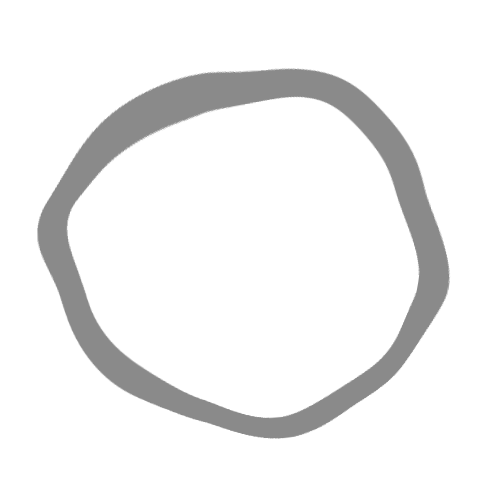
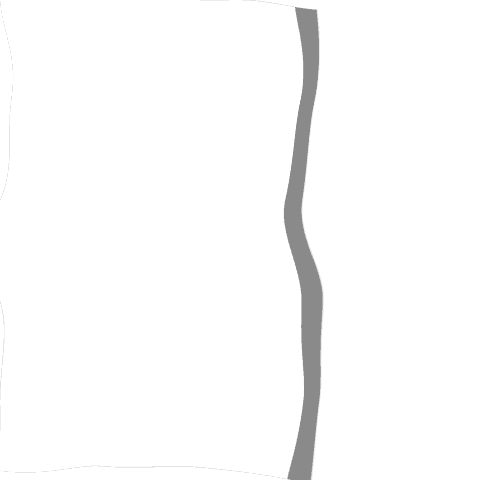
Fundo marrom no convite, pintura em pincel na Hero e corrige vídeo sumindo
Convite: fundo da página passa de creme para marrom escuro (o envelope e
o lacre continuam iguais); ajustado o contraste do texto "Pular"/"Toque
para abrir" para o novo fundo.

Hero: a máscara de revelação trocou de mancha circular para uma faixa
com borda direita irregular, ancorada na esquerda, que cresce da
esquerda para a direita como uma pincelada, em vez de crescer a partir
do centro.

YouTube: o vídeo "O pedido de casamento" sumia porque
pausarAutomaticamente tinha a identidade recriada a cada mudança de
tocando, o que derrubava o efeito do player do YouTube e chamava
destroy() (que remove o próprio iframe) sempre que a música
começava/parava, sem conseguir recriar o player depois. Corrigido lendo
tocando por ref dentro de pausarAutomaticamente (mantendo a função
estável) e, como reforço, o efeito do YouTubeEmbed agora guarda as
funções do contexto em refs e só roda uma vez por vídeo.

Claude-Session: https://claude.ai/code/session_01LnzAL4Gt1cwkHAfYcbQojS

Changed region(s): [[0.0625, 0.0, 0.9375, 1.0]]

diff --git a/components/experiencia/HeroAquarela.tsx b/components/experiencia/HeroAquarela.tsx
@@ -42,14 +42,19 @@ function medirDesempenho(): Promise<boolean> {
   });
 }
 
-// Mancha orgânica usada como máscara de revelação. O feTurbulence/feDisplacementMap é "assado"
-// uma única vez em build time (scripts/gerar-camadas-aquarela.mjs), virando um PNG estático:
-// recalcular esse filtro ao vivo dentro de um mask-image, com mask-size animado, tem recortes
-// retos em alguns navegadores quando a máscara é ampliada. Com um raster pronto, o componente
-// só anima mask-size/mask-position (CSS puro) por cima dele.
+// Faixa de pincel (borda direita irregular) usada como máscara de revelação. O
+// feTurbulence/feDisplacementMap é "assado" uma única vez em build time
+// (scripts/gerar-camadas-aquarela.mjs), virando um PNG estático: recalcular esse filtro ao
+// vivo dentro de um mask-image, com mask-size animado, tem recortes retos em alguns
+// navegadores quando a máscara é ampliada. Com um raster pronto, o componente só anima
+// mask-size (a largura da faixa, da esquerda para a direita) por cima dele.
 const MASCARA_LAVAGEM = 'url("/images/aquarela/mascara-lavagem.png")';
 const MASCARA_FINAL = 'url("/images/aquarela/mascara-final.png")';
-const ORIGEM_MANCHA = "54% 58%";
+// A faixa fica ancorada na borda esquerda (0%) e centralizada na vertical; só a largura
+// (primeiro valor do mask-size) cresce, pintando da esquerda para a direita como um pincel.
+const ORIGEM_MANCHA = "0% 50%";
+const LARGURA_INICIAL = "3% 400%";
+const LARGURA_FINAL = "190% 400%";
 
 type TextoRevelavelProps = {
   className?: string;
@@ -137,14 +142,14 @@ export default function HeroAquarela() {
       if (modo === "cheio") {
         tl.fromTo(
           lavagem.current,
-          { maskSize: "8% 8%", WebkitMaskSize: "8% 8%", opacity: 1 },
-          { maskSize: "260% 260%", WebkitMaskSize: "260% 260%", duration: 1.6, ease: "power2.out" },
+          { maskSize: LARGURA_INICIAL, WebkitMaskSize: LARGURA_INICIAL, opacity: 1 },
+          { maskSize: LARGURA_FINAL, WebkitMaskSize: LARGURA_FINAL, duration: 1.6, ease: "power1.inOut" },
           0.35,
         )
           .fromTo(
             final.current,
-            { maskSize: "8% 8%", WebkitMaskSize: "8% 8%" },
-            { maskSize: "280% 280%", WebkitMaskSize: "280% 280%", duration: 1.9, ease: "power2.out" },
+            { maskSize: LARGURA_INICIAL, WebkitMaskSize: LARGURA_INICIAL },
+            { maskSize: LARGURA_FINAL, WebkitMaskSize: LARGURA_FINAL, duration: 1.9, ease: "power1.inOut" },
             1.1,
           )
           .to(final.current, { opacity: 1, duration: 0.1 }, 1.1)
@@ -157,8 +162,8 @@ export default function HeroAquarela() {
       } else {
         tl.fromTo(
           final.current,
-          { maskSize: "8% 8%", WebkitMaskSize: "8% 8%" },
-          { maskSize: "280% 280%", WebkitMaskSize: "280% 280%", duration: 1.3, ease: "power2.out" },
+          { maskSize: LARGURA_INICIAL, WebkitMaskSize: LARGURA_INICIAL },
+          { maskSize: LARGURA_FINAL, WebkitMaskSize: LARGURA_FINAL, duration: 1.3, ease: "power1.inOut" },
           0.4,
         ).to(final.current, { opacity: 1, duration: 0.1 }, 0.4);
       }
@@ -187,8 +192,8 @@ export default function HeroAquarela() {
     maskRepeat: "no-repeat",
     WebkitMaskPosition: ORIGEM_MANCHA,
     maskPosition: ORIGEM_MANCHA,
-    WebkitMaskSize: "8% 8%",
-    maskSize: "8% 8%",
+    WebkitMaskSize: LARGURA_INICIAL,
+    maskSize: LARGURA_INICIAL,
   });
 
   return (

diff --git a/components/YouTubeEmbed.tsx b/components/YouTubeEmbed.tsx
@@ -53,6 +53,17 @@ export default function YouTubeEmbed({ videoId, title, className = "" }: YouTube
   const motivo = `video-${idIframe}`;
   const { pausarAutomaticamente, retomarAutomaticamente } = useAudioExperiencia();
   const leitor = useRef<LeitorYouTube | null>(null);
+  // Guarda as funções mais recentes em refs e mantém o efeito abaixo preso a [] (só roda uma
+  // vez). Se essas funções entrassem no array de dependências, qualquer mudança de
+  // identidade entre elas destruiria e tentaria recriar o player (YT.Player.destroy()
+  // remove o próprio <iframe> do DOM), e a recriação falha porque o elemento já não existe.
+  // era exatamente isso que fazia o vídeo sumir ao iniciar a música.
+  const pausarRef = useRef(pausarAutomaticamente);
+  const retomarRef = useRef(retomarAutomaticamente);
+  useEffect(() => {
+    pausarRef.current = pausarAutomaticamente;
+    retomarRef.current = retomarAutomaticamente;
+  });
 
   useEffect(() => {
     let cancelado = false;
@@ -63,9 +74,9 @@ export default function YouTubeEmbed({ videoId, title, className = "" }: YouTube
           onStateChange: (evento) => {
             if (!window.YT) return;
             if (evento.data === window.YT.PlayerState.PLAYING) {
-              pausarAutomaticamente(motivo);
+              pausarRef.current(motivo);
             } else if (evento.data === window.YT.PlayerState.PAUSED || evento.data === window.YT.PlayerState.ENDED) {
-              retomarAutomaticamente(motivo);
+              retomarRef.current(motivo);
             }
           },
         },
@@ -73,10 +84,10 @@ export default function YouTubeEmbed({ videoId, title, className = "" }: YouTube
     });
     return () => {
       cancelado = true;
-      retomarAutomaticamente(motivo);
+      retomarRef.current(motivo);
       leitor.current?.destroy?.();
     };
-  }, [idIframe, motivo, pausarAutomaticamente, retomarAutomaticamente]);
+  }, [idIframe, motivo]);
 
   return (
     <div className={`watercolor-frame relative aspect-[9/16] overflow-hidden bg-brown-dark ${className}`}>

diff --git a/components/experiencia/ConviteAbertura.tsx b/components/experiencia/ConviteAbertura.tsx
@@ -143,7 +143,7 @@ export default function ConviteAbertura() {
       ref={raiz}
       role="dialog"
       aria-label="Convite de casamento de Jéssica e Willian"
-      className="fixed inset-0 z-[100] grid h-[100svh] place-items-center overflow-hidden bg-cream"
+      className="fixed inset-0 z-[100] grid h-[100svh] place-items-center overflow-hidden bg-brown-dark"
     >
       <button
         type="button"
@@ -153,7 +153,7 @@ export default function ConviteAbertura() {
           iniciarMusica();
           void sair(true);
         }}
-        className="absolute right-3 top-[max(12px,env(safe-area-inset-top))] z-10 min-h-11 px-3 font-sans text-[11px] font-medium uppercase tracking-[0.22em] text-brown-dark/70"
+        className="absolute right-3 top-[max(12px,env(safe-area-inset-top))] z-10 min-h-11 px-3 font-sans text-[11px] font-medium uppercase tracking-[0.22em] text-cream/80"
       >
         Pular
       </button>
@@ -248,7 +248,7 @@ export default function ConviteAbertura() {
           </span>
         </span>
 
-        <span ref={toque} className="block animate-pulse font-sans text-[12px] font-medium uppercase tracking-[0.3em] text-brown-dark/80">
+        <span ref={toque} className="block animate-pulse font-sans text-[12px] font-medium uppercase tracking-[0.3em] text-cream/90">
           Toque para abrir
         </span>
       </button>

diff --git a/components/experiencia/AudioContext.tsx b/components/experiencia/AudioContext.tsx
@@ -53,6 +53,11 @@ export function ExperienciaProvider({ children }: { children: ReactNode }) {
   const pausadoManualmente = useRef(false);
   const motivosPausa = useRef<Set<string>>(new Set());
   const tocandoAntesDaPausa = useRef(false);
+  const tocandoRef = useRef(false);
+
+  useEffect(() => {
+    tocandoRef.current = tocando;
+  }, [tocando]);
 
   useEffect(() => {
     try {
@@ -106,16 +111,19 @@ export function ExperienciaProvider({ children }: { children: ReactNode }) {
     }
   }, [tocando, tocar, pausar]);
 
+  // Lê tocandoRef (não o estado tocando) de propósito: assim a função mantém a mesma
+  // identidade entre renders e não derruba efeitos que dependem dela (como o player do
+  // YouTube, que destruiria e recriaria o iframe toda vez que a música começasse/parasse).
   const pausarAutomaticamente = useCallback(
     (motivo: string) => {
       const jaHaviaMotivo = motivosPausa.current.size > 0;
       motivosPausa.current.add(motivo);
-      if (!jaHaviaMotivo && tocando) {
+      if (!jaHaviaMotivo && tocandoRef.current) {
         tocandoAntesDaPausa.current = true;
         pausar(true);
       }
     },
-    [tocando, pausar],
+    [pausar],
   );
 
   const retomarAutomaticamente = useCallback(
